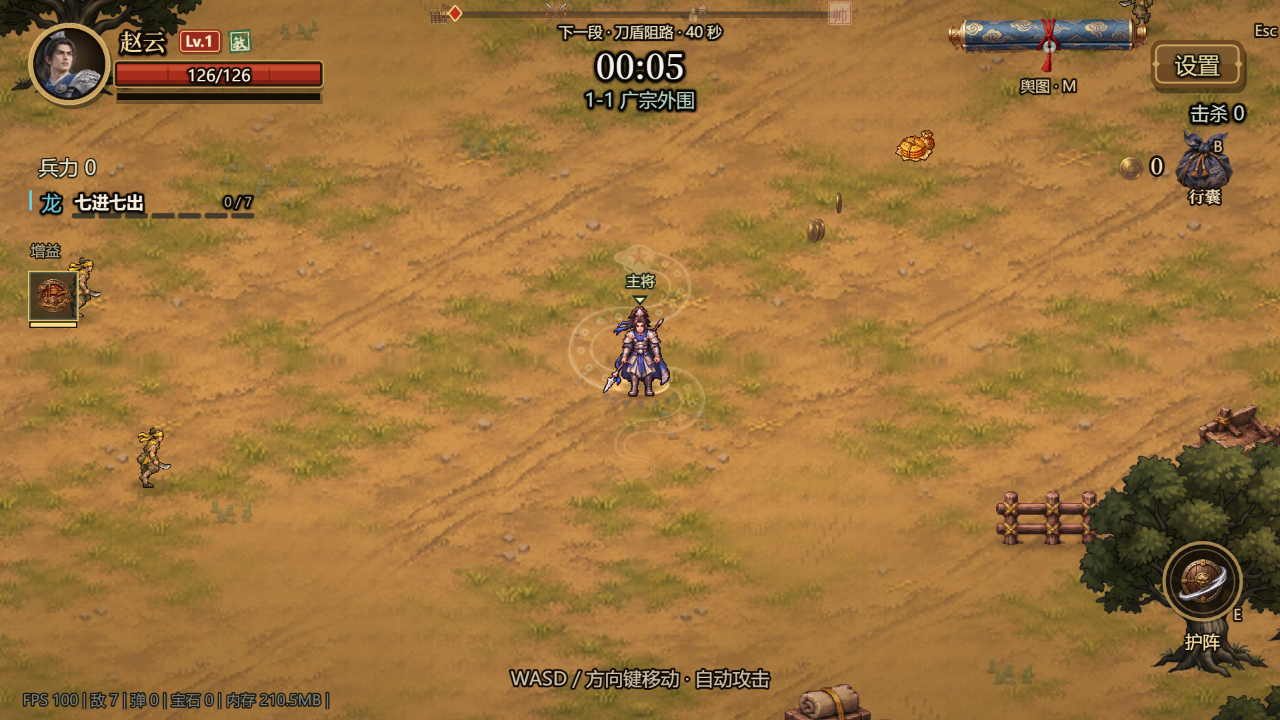
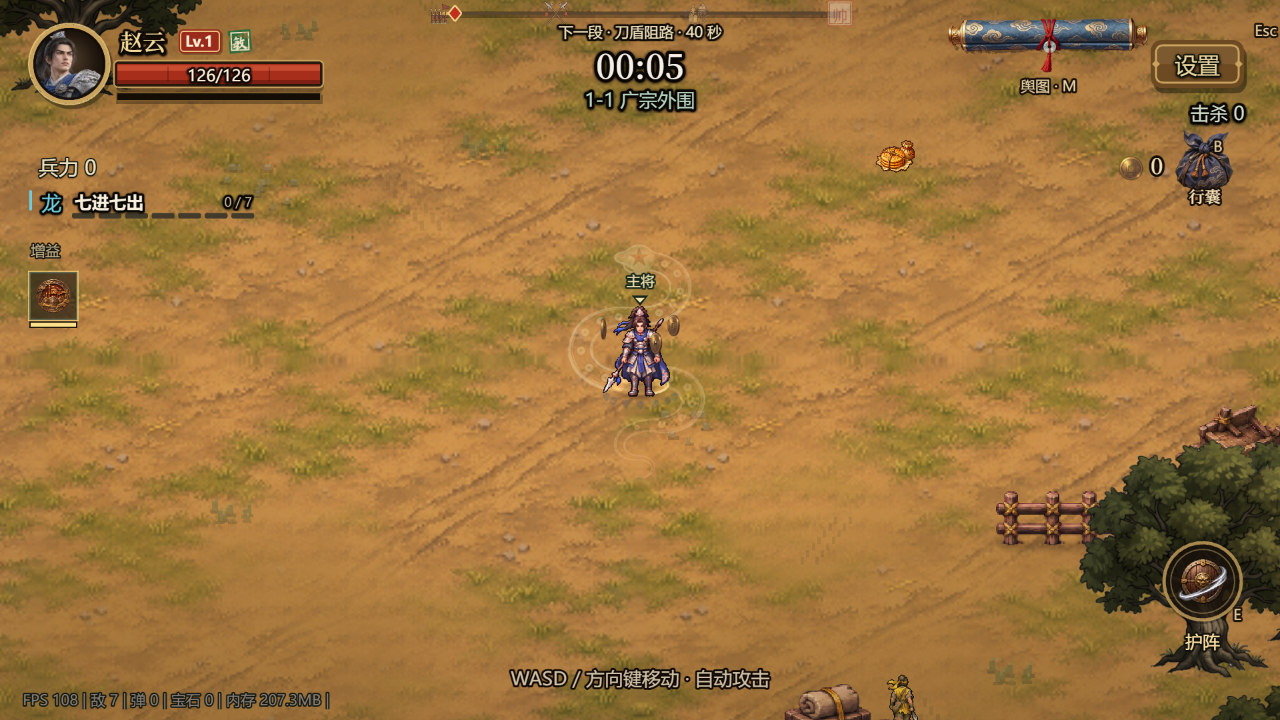
钱币 / 军功符捡起后先绕身再飞：钱币飞行囊，军功符改飞左上经验条
- CoinFly 改成两段：绕身（世界坐标，跟着主将走，约 0.35 秒转 3/4 圈，半径 26–34 屏幕像素，略上浮，转到身后画在主将之下；多枚起始角错开）→ 沿弧线飞向目标
- 军功符单独一路 tokenFly：目标是经验条填充末端，到达时经验条落点亮一下、上下鼓一点（HeroStatusFrame.xpPoint / xpGlint）；不加新声音，不再碰行囊
- 入账时机不变（碰到主将即加钱 / 加经验，升级不等）；同屏上限含绕身阶段；手机布局 / 降级不绕身
- shot-coins：绕身阶段、军功符落点在经验条、glint；截图 battle-orbit / battle-fly / battle-xp-to-bar

diff --git a/src/ui/CoinFly.ts b/src/ui/CoinFly.ts
@@ -3,39 +3,43 @@ import type { Sfx } from '../systems/Sfx';
 import { GAME_HEIGHT, GAME_WIDTH } from '../config';
 
 /**
- * 钱币飞入（2026-11-21 用户：「需要做个拾取到钱币的音效，然后钱币会有个动画飞去金币袋里，现在军粮变成钱币」；
- * 后改「钱币就是飞进行囊里，行囊可以看到钱币数量」）。
+ * 拾取物飞入（2026-11-21）：钱币飞进右上「行囊」，军功符（经验信物）飞向左上经验条。
+ * 用户：「需要做个拾取到钱币的音效，然后钱币会有个动画飞去金币袋里」→「钱币就是飞进行囊里」→
+ *       「关于军功捡起来会飞向经验条，钱币会飞向行囊。捡起来的时候不会立刻飞过去，会在身边转一下才飞过去」。
  *
- * 两种用法：
- *  - burst(from, amount)：通用入口——从任意点（HUD 坐标；战斗里用 GameScene.coinBurst 从世界坐标换算）飞 amount 的钱向目标。
- *    之后数值涨上来的那部分记作「已飞过」，不会再飞一遍。地上掉的铜钱（钱币掉落物，由 star-map-p1 会话实现）捡到时调它。
- *  - 盯数值：value() 一涨而又没人 burst 过，就从 from()（默认屏幕中间）飞——所有现有的得钱来源（粮袋、粮车、事件、卖装备）都自动有。
- * 表现：
- *  - 数量按这次多少分档：< 5 → 1 枚，< 20 → 3 枚，其余 5 枚；同屏飞行最多 12 枚（超出的只入账、不飞）。
- *  - 轨迹：先微微弹起（前 22% 时间往上 10px），再沿二次贝塞尔弧线加速飞到目标（约 0.45 秒，逐枚错开 55ms）；铜钱翻转帧动画 coin_flip。
- *  - 每枚到达：目标缩放回弹（行囊 1.08）+ 可选切到「鼓起」贴图 0.25 秒（行囊 bundle_full）+ 轻「落袋」声；整笔最后一枚到达时显示的数字跳到新值。
- * 数值在获得时就已入账，这里只是表现：displayLag() 给出「还在飞的那部分」，界面显示 真值 − lag。
- * 用真实时间（performance.now）驱动，不吃场景时钟——暂停 / 弹窗时不会卡住；超过 0.9 秒还没到的一律当作已到（不丢计数）。
- * 图（美术 public/assets/coins/，说明见共享笔记 coins-art.md）：飞行铜钱 coin_flip（6 帧 48² 的 2× 图）、资源图标 coin_string、行囊鼓起 bundle_full。不画程序图形。
+ * 一枚拾取物的两段表现（数值都在碰到主将那一刻就已入账，这里只是表现）：
+ *  ① 绕身：贴着主将绕转半圈到一圈（约 0.35 秒，半径 26–34px，略微上浮），转到主将身后那半圈画在主将图层之下；跟着主将走。
+ *     多枚同时捡到时起始角度错开，像一小串绕着转。（需要 orbit 选项：只在战斗、电脑布局用；手机 / 降级跳过绕转。）
+ *  ② 飞入：从绕转结束处沿弧线加速飞向目标（钱币约 0.45 秒，军功符约 0.38 秒）；到达时目标反馈（行囊缩放回弹 + 鼓起贴图；经验条由 onArrive 亮一下）。
+ * 钱币两种来源：burst(from, amount)（通用入口）/ 盯数值 value() 一涨。数量按多少分档 1 / 3 / 5 枚。
+ * 同屏上限：钱币 12 枚、军功符 10 枚（绕转阶段也算）；军功符另限每 0.1 秒最多起飞 2 枚。超出的只入账、不画。
+ * displayLag()：还没到达的钱（界面显示 真值 − lag，到达时数字跳到新值）。真实时间驱动（performance.now），暂停 / 弹窗不卡；超时一律算到。
+ * 图：铜钱 coin_flip（6 帧翻转）、军功符用信物自己的贴图（gem_tok_small 青玉 / gem_tok_large 金令牌）、行囊鼓起 bundle_full。不画程序图形。
  */
 export interface CoinFlyOpts {
-  /** 盯的数值。 */
+  /** 盯的数值（军功符那一个实例不盯，给 () => 0）。 */
   value: () => number;
   /** 目标图标（HUD 坐标）；没有时只入账不飞。 */
   purse: () => Phaser.GameObjects.Image | null;
-  /** 盯数值时这次涨的钱从哪飞起（HUD 坐标）；不给就从屏幕中间。 */
-  from?: () => { x: number; y: number } | null;
+  /** 盯数值时这次涨的钱从哪飞起（HUD 坐标；orbit = 是主将自己捡的，先绕身）；不给就从屏幕中间。 */
+  from?: () => { x: number; y: number; orbit?: boolean } | null;
   sfx?: () => Sfx | null | undefined;
   depth: number;
-  /** 现在能不能飞（例如战斗开打、没有弹窗）；false 时数值变化只同步、不飞（开局载入上一关带来的钱之类）。 */
+  /** 现在能不能飞；false 时数值变化只同步、不飞。 */
   armed?: () => boolean;
-  /** 每帧回调：显示值（真值 − 还在飞的）——界面用它刷新数字，到达时跳到新值。 */
+  /** 每帧回调：显示值（真值 − 还没到的）。 */
   onFrame?: (shown: number) => void;
-  /** 到达时目标放大多少（默认 .22；行囊 .08）。 */
+  /** 到达时目标放大多少（默认 .22；行囊 .08；0 = 不缩放）。 */
   bump?: number;
   /** 到达时目标短暂切换的贴图（行囊鼓起 bundle_full），0.25 秒后切回。 */
   flashKey?: string;
-  /** 飞行铜钱显示尺寸（逻辑像素）。 */
+  /** 每枚到达时的额外反馈（经验条亮一下）。 */
+  onArrive?: () => void;
+  /** 到达时播不播「落袋」声（钱币播；军功符不加新声音）。 */
+  landSound?: boolean;
+  /** 绕身阶段（战斗、电脑布局）：主将世界坐标与图层、世界 → HUD 坐标换算。 */
+  orbit?: { anchor: () => { x: number; y: number; depth: number; /** 1 世界像素 = 多少 HUD 逻辑像素（半径、尺寸按屏幕算） */ k: number } | null; toUi: (x: number, y: number) => { x: number; y: number } };
+  /** 钱币显示尺寸（逻辑像素）。 */
   size?: number;
 }
 export const COIN_ART = { flip: 'coin_flip', string: 'coin_string', bundleFull: 'bag_bundle_full' } as const;
@@ -49,20 +53,27 @@ export function ensureCoinArt(scene: Phaser.Scene, done?: () => void): void {
   if (done) L.once('complete', done);
   if (!L.isLoading()) L.start();
 }
-const TOKEN_DUR = 350, TOKEN_WINDOW = 100, TOKEN_PER_WINDOW = 2, TOKEN_MAX = 10;
-const DUR = 450, STAGGER = 55, MAX_LIVE = 12, SETTLE_MS = 900, POP = .22, FLASH_MS = 250, CLAIM_MS = 1500;
-interface Coin { img: Phaser.GameObjects.Sprite | null; t0: number; x0: number; y0: number; cx: number; cy: number; batch: Batch }
+const COIN_DUR = 450, TOKEN_DUR = 380, STAGGER = 55, COIN_MAX = 12, SETTLE_MS = 1500, POP = .22, FLASH_MS = 250, CLAIM_MS = 1500;
+const ORBIT_MS = 350, ORBIT_SWEEP = Math.PI * 1.5, ORBIT_RISE = 10, ORBIT_SQUASH = .45, ORBIT_LIFT = 20;
+const TOKEN_WINDOW = 100, TOKEN_PER_WINDOW = 2, TOKEN_MAX = 10;
 interface Batch { amount: number; t0: number; left: number }
+interface Flyer {
+  kind: 'coin' | 'token'; key: string; frame: number; size: number; flip: boolean;
+  phase: 'orbit' | 'fly'; t0: number; a0: number; r: number;
+  world: Phaser.GameObjects.Image | null; hud: Phaser.GameObjects.Image | null;
+  x0: number; y0: number; cx: number; cy: number; batch: Batch | null; orbited: boolean;
+}
 
 export class CoinFly {
   private last: number;
-  private coins: Coin[] = [];
+  private flyers: Flyer[] = [];
   private batches: Batch[] = [];
-  /** burst 过、还没在数值上体现的钱（避免盯数值时再飞一遍）。 */
   private claims: Array<{ amount: number; t: number }> = [];
+  private tokenLaunches: number[] = [];
   private bumpAt = -1e9;
   private flashUntil = 0; private flashBase = '';
   private purseBase = -1; private baseFor: Phaser.GameObjects.Image | null = null;
+  private orbitSeed = Math.random() * Math.PI * 2;
   private readonly onUpdate = (): void => this.update();
   constructor(private readonly scene: Phaser.Scene, private readonly o: CoinFlyOpts) {
     this.last = o.value();
@@ -70,103 +81,119 @@ export class CoinFly {
     scene.events.on(Phaser.Scenes.Events.UPDATE, this.onUpdate);
     scene.events.once(Phaser.Scenes.Events.SHUTDOWN, () => this.destroy());
   }
-  destroy(): void { this.scene.events.off(Phaser.Scenes.Events.UPDATE, this.onUpdate); for (const c of this.coins) c.img?.destroy(); for (const t of this.tokens) t.img.destroy(); this.coins = []; this.tokens = []; this.batches = []; }
-  /** 还在飞、没到达的钱（界面显示 真值 − 这个数）。 */
+  destroy(): void { this.scene.events.off(Phaser.Scenes.Events.UPDATE, this.onUpdate); for (const f of this.flyers) { f.world?.destroy(); f.hud?.destroy(); } this.flyers = []; this.batches = []; }
+  /** 还没到达的钱（界面显示 真值 − 这个数）。 */
   displayLag(): number { const now = performance.now(); let n = 0; for (const b of this.batches) if (now - b.t0 < SETTLE_MS) n += b.amount; return n; }
-  /** 数值被别处直接改了（读档、重置）时同步基准，不飞。 */
   resync(): void { this.last = this.o.value(); }
-  /** 测试用：当前在飞的铜钱数。 */
-  get flying(): number { return this.coins.length; }
-  /** 测试用：目标切到「鼓起」贴图的次数。 */
-  flashes = 0;
+  /** 测试用。 */
+  get flying(): number { return this.flyers.filter(f => f.kind === 'coin').length; }
+  get tokensFlying(): number { return this.flyers.filter(f => f.kind === 'token').length; }
+  get orbiting(): number { return this.flyers.filter(f => f.phase === 'orbit').length; }
+  tokensLaunched = 0; flashes = 0; arrivals = 0; orbitsSeen = 0; lastLand: { x: number; y: number } | null = null;
 
-  // ───────── 经验信物飞进行囊（2026-11-21 用户「军功符也要飞进行囊」）─────────
-  // 纯表现：经验在信物碰到主将时就已入账；这里从主将处再飞一段到目标（约 0.35 秒），到达时目标一样轻轻一鼓，不动钱币数字、不出声。
-  // 经验掉得多：每 0.1 秒最多起飞 2 枚、同屏最多 10 枚，超出的不画。
-  private tokens: Array<{ img: Phaser.GameObjects.Image; t0: number; x0: number; y0: number; cx: number; cy: number }> = [];
-  private tokenLaunches: number[] = [];
-  /** 测试用：在飞的信物数 / 累计起飞数。 */
-  get tokensFlying(): number { return this.tokens.length; }
-  tokensLaunched = 0;
-  /** 从 from（HUD 坐标）飞一枚信物（贴图 key 的 frame 帧，显示 size）到目标；超过限流就不画，返回是否起飞。 */
-  token(from: { x: number; y: number }, key: string, frame: number, size: number): boolean {
-    const now = performance.now(), purse = this.o.purse();
-    this.tokenLaunches = this.tokenLaunches.filter(t => now - t < TOKEN_WINDOW);
-    if (!purse || !this.scene.textures.exists(key) || this.tokens.length >= TOKEN_MAX || this.tokenLaunches.length >= TOKEN_PER_WINDOW) return false;
-    this.tokenLaunches.push(now); this.tokensLaunched++;
-    const img = this.scene.add.image(from.x, from.y, key, frame).setScrollFactor(0).setDepth(this.o.depth).setName('token-fly'); img.setScale(size / Math.max(1, img.width));
-    img.setData('s', img.scaleX);
-    this.tokens.push({ img, t0: now, x0: from.x, y0: from.y, cx: (from.x + purse.x) / 2 + (Math.random() - .5) * 30, cy: Math.min(from.y, purse.y) - 40 - Math.random() * 20 });
-    return true;
-  }
-  private updateTokens(now: number, purse: Phaser.GameObjects.Image | null): void {
-    for (let i = this.tokens.length - 1; i >= 0; i--) {
-      const c = this.tokens[i], k = (now - c.t0) / TOKEN_DUR;
-      if (k >= 1 || !purse) { c.img.destroy(); this.tokens.splice(i, 1); if (purse) this.bump(now); continue; }
-      const t = k * k, a = (1 - t) * (1 - t), b = 2 * (1 - t) * t, d = t * t;
-      c.img.setPosition(a * c.x0 + b * c.cx + d * purse.x, a * c.y0 + b * c.cy + d * purse.y).setScale((c.img.getData('s') as number) * (1 - .3 * Math.max(0, k - .6) / .4));
-    }
-  }
-
-  /** 通用入口：从 from（HUD 坐标）飞 amount 的钱到目标。钱应当已经（或马上）加进数值里；这里只管表现。 */
-  burst(from: { x: number; y: number }, amount: number): void {
+  /** 钱币通用入口：钱应当已经（或马上）加进数值里；这里只管表现。 */
+  burst(from: { x: number; y: number }, amount: number, orbit = true): void {
     if (!(amount > 0)) return;
     this.claims.push({ amount, t: performance.now() });
-    this.fly(from, amount, performance.now());
+    this.coins(from, amount, performance.now(), orbit);
+  }
+  /** 军功符：从 from（HUD 坐标；有 orbit 时从主将身边起转）飞一枚信物到目标；超过限流就不画。返回是否起飞。 */
+  token(from: { x: number; y: number }, key: string, frame: number, size: number): boolean {
+    const now = performance.now();
+    this.tokenLaunches = this.tokenLaunches.filter(t => now - t < TOKEN_WINDOW);
+    if (!this.o.purse() || !this.scene.textures.exists(key) || this.tokensFlying >= TOKEN_MAX || this.tokenLaunches.length >= TOKEN_PER_WINDOW) return false;
+    this.tokenLaunches.push(now); this.tokensLaunched++;
+    this.spawn('token', key, frame, size, false, from, now, 0, 1, null, true);
+    return true;
   }
 
   private update(): void {
     const now = performance.now(), v = this.o.value();
     this.claims = this.claims.filter(c => now - c.t < CLAIM_MS && c.amount > 0);
-    if (v < this.last || (v > this.last && this.o.armed && !this.o.armed())) { this.last = v; this.claims = []; } // 花掉了 / 不在可飞的时候：不飞，跟上
+    if (v < this.last || (v > this.last && this.o.armed && !this.o.armed())) { this.last = v; this.claims = []; }
     else if (v > this.last) {
       let d = v - this.last; this.last = v;
-      for (const c of this.claims) { const k = Math.min(c.amount, d); c.amount -= k; d -= k; if (!d) break; } // burst 过的那部分不再飞
-      if (d > 0) this.fly(this.o.from?.() ?? { x: GAME_WIDTH / 2, y: GAME_HEIGHT / 2 }, d, now);
+      for (const c of this.claims) { const k = Math.min(c.amount, d); c.amount -= k; d -= k; if (!d) break; }
+      if (d > 0) { const fr = this.o.from?.() ?? { x: GAME_WIDTH / 2, y: GAME_HEIGHT / 2 }; this.coins(fr, d, now, !!fr.orbit); }
     }
-    const purse = this.o.purse(), tx = purse?.x ?? 0, ty = purse?.y ?? 0;
-    for (let i = this.coins.length - 1; i >= 0; i--) {
-      const c = this.coins[i], k = (now - c.t0) / DUR;
-      if (k < 0) { c.img?.setVisible(false); continue; }
-      if (k >= 1 || !purse) { this.land(c, now); this.coins.splice(i, 1); continue; }
+    const purse = this.o.purse(), anchor = this.o.orbit?.anchor() ?? null;
+    for (let i = this.flyers.length - 1; i >= 0; i--) {
+      const f = this.flyers[i];
+      if (f.phase === 'orbit') {
+        const k = (now - f.t0) / ORBIT_MS;
+        if (k < 0) { f.world?.setVisible(false); continue; }
+        if (k < 1 && anchor && f.world) {
+          // 贴身绕转：椭圆（俯视透视），转到上半圈（主将身后）画在主将图层之下；跟着主将走；略微上浮
+          const e = k < .5 ? 2 * k * k : 1 - 2 * (1 - k) * (1 - k), a = f.a0 + ORBIT_SWEEP * e, sy = Math.sin(a);
+          f.world.setVisible(true).setPosition(anchor.x + Math.cos(a) * f.r, anchor.y - (ORBIT_LIFT + ORBIT_RISE * k) / anchor.k + sy * f.r * ORBIT_SQUASH).setDepth(anchor.depth + (sy < 0 ? -.01 : .01));
+          if (f.flip) f.world.setFrame(Math.floor((now - f.t0) / 70) % 6);
+          continue;
+        }
+        // 绕转结束（或主将没了）：换成 HUD 上的飞行
+        const p = f.world && this.o.orbit ? this.o.orbit.toUi(f.world.x, f.world.y) : { x: f.x0, y: f.y0 };
+        f.world?.destroy(); f.world = null;
+        this.toFly(f, p, now, purse);
+        continue;
+      }
+      const dur = f.kind === 'coin' ? COIN_DUR : TOKEN_DUR, k = (now - f.t0) / dur;
+      if (k < 0) { f.hud?.setVisible(false); continue; }
+      if (k >= 1 || !purse) { this.land(f, now); this.flyers.splice(i, 1); continue; }
       let x: number, y: number;
-      if (k < POP) { const e = Math.sin((k / POP) * Math.PI / 2); x = c.x0; y = c.y0 - 10 * e; }
-      else { const u = (k - POP) / (1 - POP), t = u * u, a = (1 - t) * (1 - t), b = 2 * (1 - t) * t, d = t * t, sy = c.y0 - 10; x = a * c.x0 + b * c.cx + d * tx; y = a * sy + b * c.cy + d * ty; }
-      c.img?.setVisible(true).setPosition(x, y).setScale((c.img.getData('s') as number) * (1 - .25 * Math.max(0, k - .7) / .3));
-      if (c.img && this.scene.textures.exists(COIN_ART.flip)) c.img.setFrame(Math.floor((now - c.t0) / 70) % 6); // 约 14 帧 / 秒翻转
+      const pop = f.kind === 'coin' && !f.orbited ? POP : 0; // 没有绕身阶段时先弹起一点再飞
+      if (k < pop) { const e = Math.sin((k / pop) * Math.PI / 2); x = f.x0; y = f.y0 - 10 * e; }
+      else { const u = pop ? (k - pop) / (1 - pop) : k, t = u * u, a = (1 - t) * (1 - t), b = 2 * (1 - t) * t, d = t * t, sy = f.y0 - (pop ? 10 : 0); x = a * f.x0 + b * f.cx + d * purse.x; y = a * sy + b * f.cy + d * purse.y; }
+      f.hud?.setVisible(true).setPosition(x, y).setScale((f.hud.getData('s') as number) * (1 - .25 * Math.max(0, k - .7) / .3));
+      if (f.flip && f.hud) (f.hud as Phaser.GameObjects.Sprite).setFrame(Math.floor((now - f.t0) / 70) % 6);
     }
-    this.updateTokens(now, purse);
     this.batches = this.batches.filter(b => b.left > 0 && now - b.t0 < SETTLE_MS);
     this.o.onFrame?.(Math.max(0, Math.round(v - this.displayLag())));
-    if (purse) {
-      // 基准缩放按目标对象记（目标会换：行囊没开放时是铜钱图标、开放后是行囊）；目标自己被别处改了大小（悬停放大等）也重新记
+    if (purse && (this.o.bump ?? .22) > 0) {
       if (purse !== this.baseFor || this.purseBase < 0 || Math.abs(purse.scaleX - this.purseBase) > this.purseBase * .5) { this.purseBase = purse.scaleX; this.baseFor = purse; }
       const amp = this.o.bump ?? .22, e = (now - this.bumpAt) / 220, s = e >= 0 && e < 1 ? 1 + amp * Math.sin(e * Math.PI) * (1 - e * .4) : 1;
       purse.setScale(this.purseBase * s);
-      // 行囊鼓起：切到鼓起贴图 0.25 秒再切回（同尺寸同角度）
       if (this.flashBase && now >= this.flashUntil) { if (purse.texture.key === this.o.flashKey) purse.setTexture(this.flashBase); this.flashBase = ''; }
     }
   }
-  private fly(src: { x: number; y: number }, amount: number, now: number): void {
+  /** 一笔钱：捡到的铜钱声 + 1 / 3 / 5 枚（同屏 ≤ 12）。 */
+  private coins(src: { x: number; y: number }, amount: number, now: number, orbit: boolean): void {
     this.o.sfx?.()?.coin();
-    const purse = this.o.purse(); if (!purse) return;
-    const n = amount < 5 ? 1 : amount < 20 ? 3 : 5, room = Math.max(0, MAX_LIVE - this.coins.length), fly = Math.min(n, room);
+    if (!this.o.purse()) return;
+    const n = amount < 5 ? 1 : amount < 20 ? 3 : 5, room = Math.max(0, COIN_MAX - this.flying), fly = Math.min(n, room);
     const batch: Batch = { amount, t0: now, left: Math.max(1, fly) };
     this.batches.push(batch);
     if (!fly) { batch.left = 0; this.bump(now); return; }
-    const size = this.o.size ?? 18, flip = this.scene.textures.exists(COIN_ART.flip);
-    for (let i = 0; i < fly; i++) {
-      const x0 = src.x + (Math.random() - .5) * 18, y0 = src.y + (Math.random() - .5) * 12;
-      // 控制点：起点与目标连线中点往上抬，让弧线先上后下
-      const cx = (x0 + purse.x) / 2 + (Math.random() - .5) * 40, cy = Math.min(y0, purse.y) - 50 - Math.random() * 30;
-      let img: Phaser.GameObjects.Sprite | null = null;
-      if (flip) { img = this.scene.add.sprite(x0, y0, COIN_ART.flip, Math.floor(Math.random() * 6)).setScrollFactor(0).setDepth(this.o.depth).setVisible(false).setName('coin-fly'); const s = size / 48; img.setScale(s).setData('s', s); }
-      this.coins.push({ img, t0: now + i * STAGGER, x0, y0, cx, cy, batch });
-    }
+    const flip = this.scene.textures.exists(COIN_ART.flip);
+    for (let i = 0; i < fly; i++) this.spawn('coin', COIN_ART.flip, Math.floor(Math.random() * 6), this.o.size ?? 18, flip, src, now + i * STAGGER, i, fly, batch, orbit);
   }
-  private land(c: Coin, now: number): void {
-    c.img?.destroy(); c.batch.left--; this.bump(now);
-    this.o.sfx?.()?.play('coinPurse');
+  private spawn(kind: Flyer['kind'], key: string, frame: number, size: number, flip: boolean, src: { x: number; y: number }, t0: number, idx: number, of: number, batch: Batch | null, orbit: boolean): void {
+    const anchor = orbit ? this.o.orbit?.anchor() ?? null : null, has = this.scene.textures.exists(key);
+    // 起始角度：每笔轮换一个基准，同一笔内平均错开，像一小串绕着转
+    if (idx === 0) this.orbitSeed += 2.1;
+    const k = anchor?.k ?? 1, a0 = this.orbitSeed - idx * (1.6 / Math.max(1, of)), r = (26 + Math.random() * 8) / k;
+    const f: Flyer = { kind, key, frame, size, flip, phase: anchor ? 'orbit' : 'fly', t0, a0, r, world: null, hud: null, x0: src.x, y0: src.y, cx: 0, cy: 0, batch, orbited: false };
+    if (anchor && has) {
+      // 世界坐标里的贴图（跟主将同一个镜头，才能前后遮挡）；尺寸按世界像素（镜头会放大）
+      const img = kind === 'coin' && flip ? this.scene.add.sprite(anchor.x, anchor.y, key, frame) : this.scene.add.image(anchor.x, anchor.y, key, frame);
+      img.setVisible(false).setName(kind === 'coin' ? 'coin-orbit' : 'token-orbit'); img.setScale(size / k / Math.max(1, img.width)); f.world = img; f.orbited = true; this.orbitsSeen++;
+    } else f.phase = 'fly';
+    if (f.phase === 'fly') this.toFly(f, src, t0, this.o.purse());
+    this.flyers.push(f);
+  }
+  private toFly(f: Flyer, p: { x: number; y: number }, now: number, purse: Phaser.GameObjects.Image | null): void {
+    f.phase = 'fly'; f.t0 = Math.max(f.t0, now); f.x0 = p.x; f.y0 = p.y;
+    const tx = purse?.x ?? p.x, ty = purse?.y ?? p.y;
+    f.cx = (p.x + tx) / 2 + (Math.random() - .5) * 40; f.cy = Math.min(p.y, ty) - 45 - Math.random() * 25;
+    if (!this.scene.textures.exists(f.key)) return;
+    const img = f.kind === 'coin' && f.flip ? this.scene.add.sprite(p.x, p.y, f.key, f.frame) : this.scene.add.image(p.x, p.y, f.key, f.frame);
+    img.setScrollFactor(0).setDepth(this.o.depth).setVisible(false).setName(f.kind === 'coin' ? 'coin-fly' : 'token-fly');
+    const s = f.size / Math.max(1, img.width); img.setScale(s).setData('s', s); f.hud = img;
+  }
+  private land(f: Flyer, now: number): void {
+    if (f.hud) this.lastLand = { x: f.hud.x, y: f.hud.y };
+    f.hud?.destroy(); f.world?.destroy(); this.arrivals++;
+    if (f.batch) f.batch.left--;
+    this.bump(now); this.o.onArrive?.();
+    if (this.o.landSound !== false && f.kind === 'coin') this.o.sfx?.()?.play('coinPurse');
   }
   private bump(now: number): void {
     this.bumpAt = now;

diff --git a/src/scenes/GameScene.ts b/src/scenes/GameScene.ts
@@ -3244,7 +3244,7 @@ export class GameScene extends Phaser.Scene {
         // 拾取军功宝石不再播放音效（用户要求；战场补给拾取仍有音效）
         const gained = this.player.gainXp(this.player.growth.scaleXp(gem.value, this.heroXpRate()));
         // 2026-11-21 用户「军功符也要飞进行囊」：经验照旧此刻入账；再从主将处飞一枚信物进右上行囊（纯表现，限流；手机布局 / 降级不画、不出声）
-        if (IS_DESKTOP && !gem.lite && this.coinToUi) this.coinFly?.token(this.coinToUi(px, py), img.texture.key, 0, gem.large ? 22 : 16);
+        if (IS_DESKTOP && !gem.lite && this.coinToUi) this.tokenFly?.token(this.coinToUi(px, py), img.texture.key, 0, gem.large ? 22 : 16);
         this.relics?.onGem(this.combatNow);
         if (gained > 0) this.onHeroLevelUp(gained); // 软上限（2026-11-20）：不封顶，越级后每级 ×1.45
         continue;
@@ -5433,6 +5433,8 @@ export class GameScene extends Phaser.Scene {
     this.coinFly?.destroy();
     const toUi = (x: number, y: number): { x: number; y: number } => { const m = this.cameras.main, k = m.zoom / (this.uiCam?.zoom ?? m.zoom); return { x: (x - m.worldView.x) * k, y: (y - m.worldView.y) * k }; };
     this.coinToUi = toUi;
+    // 2026-11-21 用户「捡起来的时候不会立刻飞过去，会在身边转一下才飞过去」：电脑布局下主将自己捡到的先绕身 0.35 秒（跟着主将走、转到身后画在主将之下）
+    const orbit = { toUi, anchor: () => { const p = this.player; if (!IS_DESKTOP || !p?.sprite?.active || this.over) return null; const m = this.cameras.main; return { x: p.x, y: p.y, depth: p.sprite.depth, k: m.zoom / (this.uiCam?.zoom ?? m.zoom) }; } };
     // 2026-11-21 用户「钱币就是飞进行囊里，行囊可以看到钱币数量」：铜钱飞向右上「行囊」图标（到达时切鼓起贴图 0.25 秒 + 放大 1.08 回弹），
     // 行囊左边写钱币数（铜钱图标 coin_flip 正面帧 + 数字，无底板，变化时跳一下）；左上部曲行不再写钱币（同一个数不显示两处）
     const bag = (): Phaser.GameObjects.Image | null => { const i = this.bagBundle?.icon; return i && i.visible && i.texture.key !== '__DEFAULT' ? i : null; };
@@ -5445,8 +5447,8 @@ export class GameScene extends Phaser.Scene {
     // 行囊还没开放（1-1 兵装未解锁时行囊图标不显示）：钱币数照样写在右上同一位置，铜钱飞向这个铜钱图标
     const target = (): Phaser.GameObjects.Image | null => bag() ?? (this.coinIcon?.visible ? this.coinIcon : null);
     this.coinFly = new CoinFly(this, { value: () => this.legion?.food ?? 0, armed: () => this.mode === 'none' && !this.over && this.elapsed > 1, purse: target, depth: DEPTH.hud + 8, sfx: () => this.sfx,
-      bump: .08, flashKey: COIN_ART.bundleFull,
-      from: () => { const f = this.legion?.foodFrom, p = f && performance.now() - f.t < 300 ? f : this.player; return p ? toUi(p.x, p.y) : null; },
+      bump: .08, flashKey: COIN_ART.bundleFull, orbit,
+      from: () => { const f = this.legion?.foodFrom, fresh = !!f && performance.now() - f.t < 300, p = fresh ? f : this.player; return p ? { ...toUi(p.x, p.y), orbit: !fresh } : null; },
       onFrame: shown => {
         const b = bag(), t = this.coinCount!, ic = this.coinIcon!, on = !!this.legionUI?.hud?.visible;
         t.setVisible(on); ic.setVisible(on && this.textures.exists(COIN_ART.flip)); if (!on) return;
@@ -5456,6 +5458,11 @@ export class GameScene extends Phaser.Scene {
         t.setPosition(ax, ay).setScale(s);
         if (ic.visible) { if (ic.texture.key !== COIN_ART.flip) ic.setTexture(COIN_ART.flip, 0).setDisplaySize(20, 20); ic.setPosition(t.x - t.width * s - 13, t.y); }
       } });
+    // 军功符（青玉符 / 金令牌）：经验在碰到主将那一刻已入账（升级不等），这里只是表现——绕身后飞向左上经验条填充末端，落点亮一下；不加新声音
+    this.tokenFly?.destroy();
+    const xpMark = (this.xpMark?.scene ? this.xpMark : (this.xpMark = this.add.image(0, 0, '__DEFAULT').setVisible(false).setScrollFactor(0).setName('hud-xp-target')));
+    this.tokenFly = new CoinFly(this, { value: () => 0, purse: () => { const sf = this.statusFrame; if (!sf || !this.hudTexts?.hp?.visible) return null; const q = sf.xpPoint(); return xpMark.setPosition(q.x, q.y); },
+      depth: DEPTH.hud + 8, bump: 0, landSound: false, orbit, onArrive: () => this.statusFrame?.xpGlint() });
     // 行营（休整 / 整军）：卖兵装、事件得钱 → 铜钱从屏幕中间飞到资源行的钱币图标
     this.campCoinFly?.destroy();
     this.campCoinFly = new CoinFly(this, { value: () => this.legion?.food ?? 0, armed: () => this.mode === 'rest' && !!this.campUI?.root.visible, purse: () => (this.campUI?.root.visible ? this.campUI.purse : null), depth: DEPTH.overlay + 40, sfx: () => this.sfx,
@@ -5470,6 +5477,8 @@ export class GameScene extends Phaser.Scene {
    */
   coinBurst(x: number, y: number, amount: number): void { const p = this.coinToUi?.(x, y); if (p) this.coinFly?.burst(p, amount); }
   private campCoinFly?: CoinFly;
+  /** 军功符飞向经验条（与钱币分开的一路，目标是经验条填充末端）。 */
+  private tokenFly?: CoinFly; private xpMark?: Phaser.GameObjects.Image;
   protected renderStarPanel(): void {
     this.attributePauseText?.setText(`星图 · ${this.player.growth.unallocated}`);
     if(this.starPanel&&!this.starPanel.root.scene)this.starPanel=undefined; // 场景重开后旧面板已随属性面板销毁

diff --git a/src/ui/HeroStatusFrame.ts b/src/ui/HeroStatusFrame.ts
@@ -10,6 +10,7 @@ import { MEDAL_SIZE, drawHeroMedal } from './HeroMedal';
  * 经验条：细的金色条，与血条分开；升级时闪一下。
  * 2026-11-20 用户「还有ui血条那里也不要用大框框住」：去掉整块漆底大框（同首领血条去框），只留头像金圈、名字 + 等级印、血条（细铜边）与经验条，浮在画面上；文字描边 + 投影、条下一道淡影保证可读。每帧由场景调用 update（不受 HUD 10 Hz 节流）。
  */
+const GLINT_MS = 260;
 export const STATUS_FRAME = { x: 14, y: 12, w: 238, h: 72, r: 27, barX: 74, hpY: 36, hpH: 15, xpY: 58, xpH: 5, trailHoldMs: 250, trailMs: 600, flashMs: 520, lowHp: .3 } as const;
 
 export class HeroStatusFrame {
@@ -19,9 +20,9 @@ export class HeroStatusFrame {
   private readonly seal: Phaser.GameObjects.Text;
   private readonly sealG: Phaser.GameObjects.Graphics;
   private portrait?: Phaser.GameObjects.Image;
-  private trail = 1; private lastRatio = 1; private lastNow = 0; private hitAt = -1e9; private lastLevel = -1; private flashAt = -1e9;
+  private trail = 1; private lastRatio = 1; private lastNow = 0; private hitAt = -1e9; private lastLevel = -1; private flashAt = -1e9; private glintAt = -1e9; private lastXr = 0;
   /** 测试用。 */
-  readonly stats = { trail: 1, ratio: 1, flashes: 0, low: false, portrait: false };
+  readonly stats = { trail: 1, ratio: 1, flashes: 0, glints: 0, low: false, portrait: false };
 
   constructor(private readonly scene: Phaser.Scene, private readonly hero: string, heroName: string, private readonly depth: number) {
     const F = STATUS_FRAME;
@@ -104,8 +105,20 @@ export class HeroStatusFrame {
     if (o.over) g.fillStyle(0xf0c870, 1).fillRect(x0 + w - 2, xy - 3, 2, xh + 6); // 越级小刻度
     const fk = (now - this.flashAt) / F.flashMs;
     if (fk >= 0 && fk < 1) g.fillStyle(0xfff6d8, .85 * (1 - fk)).fillRect(x0 - 2, xy - 2, w + 4, xh + 4);
+    // 军功符落到经验条：落点（填充末端）亮一下、上下鼓起一点（2026-11-21「军功捡起来会飞向经验条」）
+    const gk = (now - this.glintAt) / GLINT_MS; this.lastXr = xr;
+    if (gk >= 0 && gk < 1) {
+      const e = Math.sin(gk * Math.PI), cx = x0 + w * xr, b = 2.2 * e, l = Math.max(x0 - 1, cx - 9 - 5 * e), r = Math.min(x0 + w + 1, cx + 9 + 5 * e);
+      g.fillStyle(0xfff0b8, .5 * e).fillRect(l, xy - b, r - l, xh + b * 2);
+      const l2 = Math.max(x0, cx - 3), r2 = Math.min(x0 + w, cx + 3);
+      g.fillStyle(0xfffbe8, .9 * e).fillRect(l2, xy - b - .5, r2 - l2, xh + b * 2 + 1);
+    }
     this.stats.trail = this.trail; this.stats.ratio = ratio;
   }
+  /** 经验条填充末端（HUD 坐标）：军功符飞到这里。 */
+  xpPoint(): { x: number; y: number } { const F = STATUS_FRAME, x0 = F.x + F.barX, w = F.w - F.barX - 12; return { x: x0 + Math.max(4, w * this.lastXr), y: F.y + F.xpY + F.xpH / 2 }; }
+  /** 军功符到了：落点亮一下。 */
+  xpGlint(now = performance.now()): void { this.glintAt = now; this.stats.glints++; }
 
   destroy(): void { for (const o of [this.back, this.bars, this.name, this.seal, this.sealG, this.portrait]) o?.destroy(); }
 }
